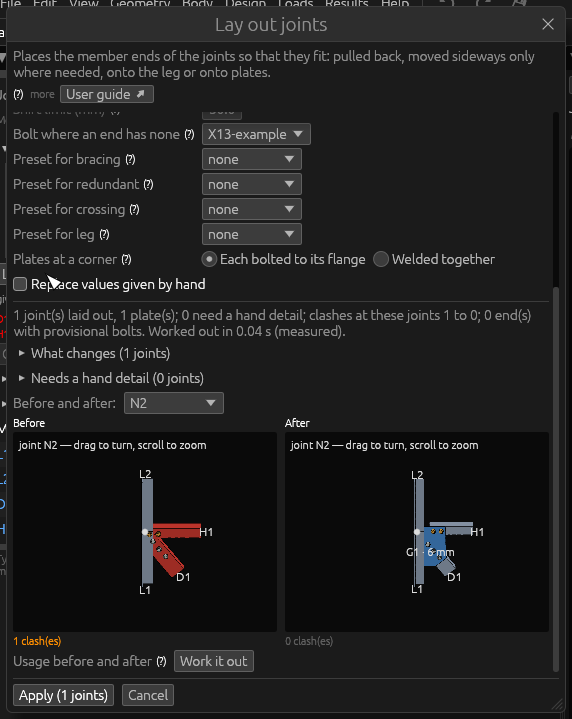
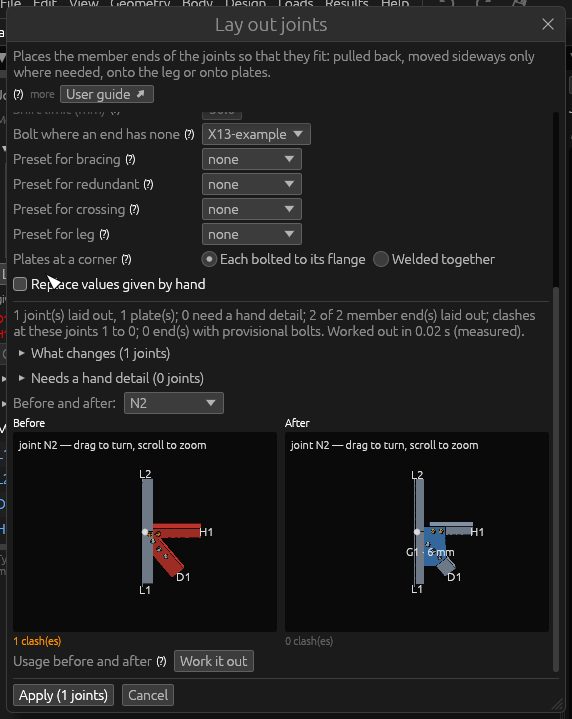
O44 J1/J2 docs: theory (the search, the place kept, assumptions, measured), user guide, joint details, decisions, roadmap; window pictures
Percentages only from the private real towers; the owner's example joints
noted (a bent corner plate proposed next), no source named.

Changed region(s): [[0.535, 0.4284, 0.951, 0.4896], [0.208, 0.459, 0.535, 0.4896], [0.0297, 0.459, 0.1783, 0.4896]]

diff --git a/docs/theory/joint-layout.md b/docs/theory/joint-layout.md
@@ -217,11 +217,112 @@ leg bolted, from where its steel stops outwards — and is pulled back
   end, of the region where the widened strips overlap (an exact
   intersection of half-strips, clipped as convex polygons);
 - the bolts already on that face that are not laid out (a leg's splice
-  bolts): each a disc of its head's corner radius and half the gap.
+  bolts): each a disc of its head's corner radius and half the gap;
+- (since 2026-11-19, J1) the **fixed steel** of the joint where it reaches
+  into the end's layer, by the gap: every part not laid out in this plan
+  (the members in line, running on, not single angles, given by hand, and
+  those left for a hand detail for their own sake — [below](#members-left-for-a-hand-detail-keep-their-place-j2)
+  —, their bolts' heads and nuts, the plates and covers given by hand) and
+  what the planes before laid out ([the search](#the-search-per-joint-j1)).
+  Each piece the clash check cuts the joint into is clipped to the end's
+  layer — from its face to two of its legs' (or the flange's, the
+  thicker) thicknesses and 0.7 bolt diameters above it (its leg on a
+  plate and its bolts' heads) — and seen from above as a convex polygon;
+  the least cut is the farthest point of it, along the end, within the
+  end's leg widened by the gap. Not what the end bolts onto (nor a member
+  running on from it in line), nor what bolts onto the end; a bolt's shank
+  through those is not in the way (its head and nut are). **An assumption
+  of the tool**: the layer's height is the program's, not a standard's;
+  steel above it is left to the clash check after writing, so nothing is
+  forced either way.
 
 The cut is rounded up to the millimetre. A cut beyond the **longest
 pull-back** (a setting) or beyond half the member less its bolts does not
 fit concentric.
+
+## The search per joint (J1)
+
+(Owner, 2026-11-19: "plan ideas to get the automatic layout working",
+approved with the recommendations; built the same day, in active
+development.) Before, the ends of a plane were placed one after the other
+in the owner's order, and one that did not fit was left — though the
+others pulled back could have made room for it. Now each joint is
+**searched**:
+
+1. **The planes on the biggest members first** (on a leg, then on the
+   bracing, then on the redundants; then by the member's id): what bolts
+   onto a member laid out on a leg keeps clear of that member as laid out —
+   its steel as a box from its cut to half its length, its outstanding leg
+   as high as it is wide, its bolts' heads, a plate under it as the hull of
+   its bolts with their edge distance. **An assumption, on the safe side for
+   the fit** (the boxes hold the angle and more); what the boxes miss is
+   caught by the clash check after writing.
+2. **In each plane, every order that can matter.** At each step every end
+   not placed yet is tried — concentric and pulled back, else the least
+   sideways shift that fits ([above](#moved-sideways-the-shift)) —; an end
+   that fits nowhere now fits nowhere later (each end placed only adds what
+   the others keep clear of), so it is left; each end that fits is placed
+   in turn, **in the owner's order** (class, the wider leg, the larger
+   angle, the id), and the rest searched again (backtracking). A placing
+   already reached in another order is not searched again.
+3. **The best**: the most ends placed; then the least eccentricity (the
+   moves off concentric, summed); then the first found. The first found
+   is the owner's order filled one after the other (as before the
+   search), so the owner's order wins every tie — the search only departs
+   from it where that lays out more or moves less. Typically a smaller
+   member placed first and a bigger one pulled back past it, where the
+   smaller one cannot be pulled back far enough within half its length
+   less its bolts.
+4. **Bounded**: at most **400 placings per joint** (`NODE_LIMIT`, the
+   program's starting value — measured on the private real towers: see
+   below —, not a standard's); a joint whose search stops there takes the
+   best found and says so with each end it leaves ("… (the search stopped
+   at its limit of 400 tries)").
+5. **Pulled back past a clash** (the 3D search): after writing, a member
+   whose laid-out steel, bolts or plate would run into anything is first
+   pulled back past it — its least cut the point of the clash along it,
+   the depth and the gap beyond its cut — and the joint planned again; up
+   to three times per end while rounds are left (six rounds per run, the
+   last two leaving such members as they were), then it is left as it was
+   with the clash, as before. A cut given by hand is never pulled back.
+
+Deterministic (the same joint and settings give the same plan: every
+order and tie fixed by the members' order and ids), no new clash (what is
+written runs into nothing but members left for a hand detail whose place
+is not kept free, below), values given by hand kept (a cut, a shift, a
+roll, what an end bolts onto: the search places round them). A longer cut
+changes no member force (the analysis runs on the members' axes); a
+shift, as before, is an eccentricity the analysis takes.
+
+## Members left for a hand detail keep their place (J2)
+
+(Owner-approved 2026-11-19.) A joint that is not laid out whole keeps the
+ends that fit; the members left are named with why ("N2: by hand R1 (its
+place kept free), the rest laid out — R1: too short for its bolts …").
+A member left **for its own sake** — it fits nowhere even alone: no roll
+lays it flat, on an inner face running towards the other leg, built up,
+too short for its bolts, its cut given by hand in the way — **keeps its
+place as it is**: every end laid out keeps clear of its steel and bolts as
+they are (in the plan, and in the clash check after writing, where a clash
+with it counts as any clash), so the joint then needs only that member by
+hand. **Not kept free** — said with what it runs into, as before:
+
+- a member left for want of room beside the ends laid out ("no room on one
+  plate", pulled back to clear one of them) or for a clash after writing:
+  it runs into them as it is, and its hand detail takes it out of their
+  way (it is the one that does not fit);
+- a plate laid out under a member left (its hand detail may bolt it onto
+  that very plate), and the members joined first (one part, nested,
+  spliced — the biggest profiles, the owner's step 1).
+
+**An assumption of the tool**: the place kept is the member as it is in
+the file, not where its hand detail will put it; a hand detail that moves
+it elsewhere may need the ends round it laid out again (Lay out joint…
+after the hand detail). Measured on two private real towers, keeping the
+place free costs 0.2 and 1.7 % of the ends laid out (against the members
+left kept clear of in the plan only); keeping the place of every member
+left free — also of those left for want of room, plates under them refused too — cost a quarter to a third of them
+(tried, left out).
 
 ## Moved sideways: the shift
 
@@ -397,12 +498,15 @@ are worked out again. Where a laid-out part would run into anything, the
 members of it — a member, its bolts, or the members on a plate — are left
 as they were, with the clash ("laid out, … would run 6 mm into each
 other"), and the rest of the joint is planned and checked again without
-them (since 2026-11-18; before, the whole joint was left). Of two parts
+them (since 2026-11-18; before, the whole joint was left) — since
+2026-11-19 (J1) after being pulled back past the clash up to three times
+first ([the search](#the-search-per-joint-j1), point 5). Of two parts
 laid out in one clash, the member is left before the members of a plate,
-then the redundant before the bracing, then the larger id. After four
+then the redundant before the bracing, then the larger id. After six
 such rounds a joint still clashing is left whole, as it was. Nothing is
 forced: what is written runs into nothing but the members left for a
-hand detail (whose clashes are said with them).
+hand detail whose place is not kept free (whose clashes are said with
+them; [J2](#members-left-for-a-hand-detail-keep-their-place-j2)).
 
 ## The clash check
 
@@ -452,6 +556,45 @@ None of them is a standard's value (the owner gave none, 2026-11-18):
 | Gap between steel | 10 mm | invented starting value |
 | Longest pull-back | 300 mm | measured on the 78 tower files of a private real line (579 to 3 030 members): with no limit, the concentric cut of the ends laid out is at most 136 mm for 95 % of the ends of every tower (100 mm for half of the towers), the largest 344 mm; 300 mm keeps the long plates to members at small angles |
 | Shift limit | 30 mm | measured on the same towers: with the pull-back at 300 mm, 37 of 18 289 ends laid out needed a shift, the largest 20 mm |
+
+Not settings, the program's starting values (J1, 2026-11-19), measured on
+the same towers:
+
+| Value | Start | Why |
+|---|---|---|
+| Placings searched per joint | 400 | never reached on the 78 tower files (the most ends of one plane there: a handful); 1 (no search) gave the same shares there, 2 000 the same layouts on the two towers tried |
+| Pulled back past a clash | 3 times per end, 6 rounds | 0 (4 rounds): 33.9 % of the joints laid out whole instead of 44.1 %, 53.9 % of the ends instead of 62.8 %; 2 (5 rounds): on two towers the same joints whole, about 1 % fewer ends, about 10 % quicker |
+
+## Measured (J1 and J2, 2026-11-19)
+
+On the 78 tower files of a private real line (Orient angles, then Lay
+out joints, values given by hand replaced; the same files and settings as
+the rounds before):
+
+| | before (2026-11-19) | J1 and J2 |
+|---|---|---|
+| joints laid out whole | 27.6 % | 44.1 % |
+| member ends laid out (of those the layout places) | 48.9 % | 62.8 % |
+| joints with a hand detail | 66.2 % | 49.7 % |
+| clashes at the joints after (of before) | 61.6 % | 46.3 % |
+| a run again identical | 78 of 78 | 78 of 78 |
+| time of a whole tower (2 190 to 3 030 members, measured one after the other) | 6–9 s | 10–15 s |
+
+Where it came from: the joint's fixed steel and what the planes before
+laid out seen in the plan, and the ends pulled back past a clash after
+writing. The search over the orders of a plane's ends changed nothing on
+these towers (its first path, the owner's order, was the best found at
+every joint; it lays out the synthetic joints of the tests that the
+owner's order filled one after the other leaves) — kept, as it costs
+nothing measurable there, but it **stops paying** on real towers: their
+planes hold few ends, and what is left is not a matter of order.
+
+What is left (joints with it; only it, of the joints with a hand detail):
+a member that no roll lays flat at both its ends, its welded plate not
+fitting (39 %; 13 %) — the turn of the whole member, J3, or a bent
+plate —; a clash after writing (39 %; 18 %); an end on an inner face
+running towards the other leg (29 %; 13 %); a built-up member (20 %;
+13 %); too short for its bolts (6 %; 3 %).
 
 The window shows each member's usage before and after for the last run's
 cases and the time the layout took.

diff --git a/docs/user-guide/joint-layout.md b/docs/user-guide/joint-layout.md
@@ -27,7 +27,9 @@ themselves are not chosen here (that comes with the design codes).
    member class), the plates of a corner bolted to their flanges or welded
    together, and whether values given by hand are replaced.
 5. Read the **preview**: how many joints are laid out, how many plates,
-   the joints that need a hand detail and why, the clashes at these joints
+   how many member ends of how many are laid out,
+   the joints that need a hand detail — which members, the rest laid out,
+   those whose place is kept free — and why, the clashes at these joints
    before and after, the time it took (measured); **What changes** per
    joint; a joint's close-up **before** and **after** (drag to turn both);
    **Usage before and after** (the members' largest usage over the last
@@ -43,11 +45,12 @@ themselves are not chosen here (that comes with the design codes).
 | Members in line first | the biggest pair of angles in line through the joint (its base): **one part** when they are the same section, turned alike and have no bolts there (a splice with bolts stays a bolted splice: its bolts stay checked); the smaller **nested** in the bigger when it fits inside; other sections that do not nest, both with their bolts, nothing else bolting onto them there: **spliced** — a splice of covers, outer and inner on each leg bolted, as thick as the thicker leg, both ends bolted onto it (2026-11-19; with bracing bolting onto them there: as given — its bolts would pass through a cover). One section in line with bolts: where the splice is is not known (their bolts may be the members' design data, at both ends) — left as given, said |
 | Who arrives | each member end bolting by one leg of an angle onto the flange of a member at the joint (the leg, a chord, a diagonal a redundant meets); members in line with it (a splice, one part) are left alone; an end bolting onto nothing gets the member running through the joint; an end whose axis lies in neither flange's plane of the joint's leg (a plan diagonal at a vertical post) gets the member running through in whose flange's plane it lies (the horizontal), if there is one — named first, so that its leg lying on it is the one bolted |
 | Laid flat | a member lying more than 5° off what it bolts onto is turned (its roll) **only where that helps**: where all its ends agree within 5° (the middle of their turns: an end that was flat stays flat, at joints not laid out too), no end of it at a joint not laid out is laid out with its roll now, and at least one of its joints is laid out with the turn; otherwise its roll stays and the preview's notes say why. A roll the layout set is taken back when none of its joints is laid out with it any more. **Half a turn** where an end on a flange's inner face cannot be laid out there (it runs towards the angle's other leg): its outstanding leg to the other side, kept only when more of its ends are laid out and no joint of it loses one (an X-brace: one diagonal on the outer faces of the legs, the other on the inner faces, back to back where they cross). A roll given by hand is kept unless replaced; a leg's or chord's roll set by **Orient angles** is always kept |
-| Concentric first | its gauge line through the work point (drawn so; the analysis keeps the member's axis there, the code's slenderness curve takes the eccentricity gauge to centroid); its end pulled back until its steel clears the flange's heel (on the inner face: the angle's other leg and root) and the ends placed before it by the gap — bracing before redundants, the wider leg first, the larger angle first |
+| Concentric first | its gauge line through the work point (drawn so; the analysis keeps the member's axis there, the code's slenderness curve takes the eccentricity gauge to centroid); its end pulled back until its steel clears the flange's heel (on the inner face: the angle's other leg and root), the ends placed before it and the joint's fixed steel (what is not laid out: members in line, built up, given by hand, left for a hand detail; their bolts) by the gap |
+| Searched (2026-11-19) | each joint is **searched**, not filled one member after the other: the planes on the biggest members first (what bolts onto a member laid out keeps clear of it as laid out); in each plane every order that can matter, the owner's order first (bracing before redundants, the wider leg, the larger angle), backtracking where an end does not fit — the most ends laid out wins, then the least moved sideways, then the owner's order. Typically a short redundant placed first and the bracing pulled back past it. At most 400 tries per joint (said where reached) |
 | A shift | only where that needs more than the longest pull-back (or more than the member's half less its bolts): the smallest sideways move that fits, a millimetre at a time, up to the shift limit. The analysis takes it as an eccentricity (a rigid end offset) |
 | Onto the leg or a plate | directly when every bolt of the plane lands on the flange (clear of its other leg and root by the nut, the edge distance from its toe — the code's when its plugin gives one, else the structure's default minimum, assumed, not a code's); else every member of the plane onto one plate on that flange, its bolts past the flange by the nut and the gap — on the outer or the inner face. Plates: as thick as the thickest leg bolted on it, outline round the bolts (the code's end and edge distances) cut at the flange's heel by half the gap (on an inner face: at the angle's thickness, root and half the gap from it, clear of its other leg); at a corner one per face, bolted to its flange, or welded together |
 | Off the flange | a member that no roll lays flat at both its ends (2026-11-19): onto a **plate in its own plane**, welded along the line where it meets the **flat plate** of its face on the flange (the other ends of that face bolted onto the flat plate) — both plates as thick as the thickest leg on them, the weld from both sides (each side a throat of 0.4 × that thickness in whole millimetres, at least 3 mm: the layout's choice, written so the weld is checked), the member's bolts past the flange's toe. On the flange's outer face, or its inner face for a member coming from inside the leg's corner. Only where the member then lies at most one plate thickness farther out of the flange than on a flat plate (its line of action off the work point is not in the analysis); else, and where the flat plate would not reach the flange or would pass too near another end's bolts, a hand detail, said |
-| No fit | the member is left exactly as it is and listed with why ("R1 and D1 within 3°: no room on one plate …"); the rest of the joint is laid out. Laid out, a member whose steel, bolts or plate would run into anything is left as it was with the clash ("laid out, … would run 6 mm into each other") and the rest of the joint laid out again without it (up to four rounds; then the joint is left whole, as it was). Never forced |
+| No fit | the member is left exactly as it is and listed with why ("R1 and D1 within 3°: no room on one plate …"); the rest of the joint is laid out. A member left for its own sake (no roll lays it flat, too short, built up…) **keeps its place**: the ends laid out keep clear of it as it is, so the joint needs only that member by hand. Laid out, a member whose steel, bolts or plate would run into anything is first pulled back past it (up to three times), then left as it was with the clash ("laid out, … would run 6 mm into each other") and the rest of the joint laid out again without it (up to six rounds; then the joint is left whole, as it was). Never forced |
 
 **The window**:
 

diff --git a/docs/development/joint-details.md b/docs/development/joint-details.md
@@ -1011,6 +1011,64 @@ splices; "report only"):
   sections has bracing on it); 6 026 joints say where their leg splice
   is is not known.
 
+Seventh round (2026-11-19, ROADMAP O44 J1 and J2, owner-approved in
+that order; "plan ideas to get the automatic layout working"):
+
+- **J1, a search per joint** (`joint_layout::plan_joint_with`,
+  `search_plane`, `NODE_LIMIT` = 400 placings per joint, said with the
+  ends left where reached): the planes on the biggest members first
+  (`Strip::host_rank`); each plane's ends placed in every order that can
+  matter, the owner's order first, backtracking (an end that fits nowhere
+  now fits nowhere later; placings reached in another order not searched
+  again); the most ends, then the least eccentricity, then the first
+  found. Each end keeps clear of the joint's **fixed steel**
+  (`clash::piece_corners`: the clash check's convex pieces of the parts
+  not laid out, `fixed_in`, clipped to the end's layer and seen from above,
+  `footprint`, `poly_need`) and of what the planes before laid out
+  (`solids_of`: boxes of the legs, outstanding legs, bolt heads and plates,
+  conservative). After writing, an end in a clash is first **pulled back
+  past it** (`write_rounds`: its least cut from the clash's place, depth
+  and the gap, `Strip::floor`; `PULLS` = 3 per end, `CLASH_ROUNDS` 4 → 6)
+  before it is left as it was.
+- **J2, the ends that fit kept and the place of a member left kept free**
+  (`JointPlan::kept_free`): a member left for its own sake (it fits
+  nowhere even alone) is fixed steel for the plan, and in the clash check a
+  clash of an end laid out with it counts; one left for want of room or
+  for a clash, a plate under a member left and the members joined first
+  are said with it, as before. The window's hand list names the members
+  left, the rest laid out, those kept free (`layout_window::hand_words`),
+  and the summary the member ends laid out of all.
+- **Fixed on the way**: the ends of one flange's face naming two members
+  of a run through the joint (a leg in two members, one end onto each)
+  were measured in two mirrored frames (the plane's x along each member
+  named): their clearances were wrong. The plane's axes now run one way
+  for every member of the run, so such ends share one plane and one
+  plate.
+- No format change: the record is the same (the reasons in `hand`).
+- Tests: the owner's order filled one after the other leaves a short
+  redundant, the search lays both out (D1 pulled back past it); a single
+  placing says the limit; the same plan twice and a plan written kept; a
+  cut given by hand kept; a member too short for its bolts keeps its
+  place (plan and run); two invented versions of example joints the owner
+  sent (diagonals bolted directly on a main angle's flange in the middle
+  of a panel, two bolts each; a gusset plate on it there).
+- **On the 78 private real tower files**: joints laid out whole 27.6 % →
+  44.1 %, member ends laid out 48.9 % → 62.8 %, joints with a hand
+  detail 66.2 % → 49.7 %, clashes at the joints after 61.6 % → 46.3 % of
+  before, a run again identical on all 78; a whole tower of 2 190 to
+  3 030 members 6–9 s → 10–15 s (one after the other). The order search
+  itself changed nothing there (stops paying: kept for joints where it
+  does); the gains are the fixed steel seen in the plan and the pull-back
+  past a clash. What is left: [theory](../theory/joint-layout.md#measured-j1-and-j2-2026-11-19).
+- **A bent plate** (the owner's example of 2026-11-19, a plate folded to
+  follow two faces at a corner, members on both sides): of the joints
+  still with a hand detail, 60 % have an end whose leg bolted lies off its
+  flange or faces away, or lies on an inner face running towards the
+  other leg — what a bent plate would take —, and for 29 % it is the only
+  reason; onto a leg alone 9 % (the only reason for 2 %: most such ends
+  bolt onto bracing — horizontals, plan and hip members). Not built (a new
+  model element): proposed as the next step.
+
 ## Detail levels
 
 Joint details exist at **level 3** only (full design). At levels 1 and 2

diff --git a/ROADMAP.md b/ROADMAP.md
@@ -1873,14 +1873,32 @@ of the joints are laid out whole; most of the rest fail on a chain: the
 members are placed one after the other, and one that does not fit blocks
 the joint. Each step is measured on the same towers (share laid out per
 step, reasons left), and the work stops where it stops paying:
-- [ ] J1. **A search per joint** instead of one member after the other:
+- [x] J1. **A search per joint** instead of one member after the other:
   per end its choices (flange, outer or inner side, leg bolted, direct or
   on a plate, a few shift steps), searched with backtracking for no clash
   and the least eccentricity; deterministic, no new clash, values given
-  by hand kept.
-- [ ] J2. **The ends that fit are kept** in a joint that is not whole: the
+  by hand kept. Built 2026-11-19, in active development, not approved
+  yet: the planes on the biggest members first, each plane's ends in
+  every order that can matter (the owner's order first, at most 400
+  placings per joint), clear of the joint's fixed steel and of what the
+  planes before laid out; after writing, an end in a clash pulled back
+  past it (up to three times) before it is left. The flange, the side and
+  the leg bolted follow the member's roll (a choice for the whole member:
+  J3); direct or on a plate stays per plane (mixed was tried 2026-11-18
+  and lost joints). On the 78 real towers: joints laid out whole 27.6 % →
+  44.1 %, member ends laid out 48.9 % → 62.8 %, a whole tower 6–9 s →
+  10–15 s. The order search itself changed nothing there (stops paying;
+  kept for the joints where it does): the gains are the fixed steel seen
+  in the plan and the pull-back past a clash.
+- [x] J2. **The ends that fit are kept** in a joint that is not whole: the
   space of a member left for a hand detail reserved so nothing laid out
-  runs into it; the joint then needs only that member by hand.
+  runs into it; the joint then needs only that member by hand. Built
+  2026-11-19, in active development, not approved yet: a member left for
+  its own sake keeps its place as it is (about 1 % of the ends laid out on
+  two real towers); one left for want of room beside the others, or for a
+  clash, is said with what it runs into (keeping every member's place
+  cost a quarter to a third of the ends); the window names the members
+  left, those whose place is kept, and the ends laid out of all.
 - [ ] J3. **Each angle's turn chosen for the whole member**: a roll that
   lets both its ends lie flat, the leg bolted allowed to change between
   its ends where that is how towers are built.
@@ -1900,7 +1918,16 @@ step, reasons left), and the work stops where it stops paying:
   code's text allows it for a redundant, else a plate shared with the
   neighbouring member.
 - Asked (open): shop drawings of real towers, to tune to how the steel
-  is really detailed.
+  is really detailed; the owner is looking for example joints
+  (2026-11-19) and sent three that day: a bent gusset plate at a corner,
+  folded to follow the two faces, members bolted on both sides of it;
+  diagonals bolted directly on a main angle's flanges; gusset plates on a
+  leg where diagonals meet it in the middle of a panel. The last two are
+  steps 2a and 2b (invented versions in the tests); the bent plate is a
+  new element — proposed next: of the joints left for a hand detail after
+  J1 and J2, 60 % have an end it would take (an end off its flange, its
+  leg bolted facing away, or on an inner face running towards the other
+  leg), the only reason for 29 %.
 Later: the bolts chosen by the code plugins and the layout run again with
 them.
 

diff --git a/docs/development/decisions.md b/docs/development/decisions.md
@@ -8,6 +8,42 @@ approved as finished: everything is built and in active development
 (not approved yet). Open questions are in the roadmap (the open points
 of Parts A, B and C).
 
+## 2026-11-19 (joint layout: a search per joint, the place of a member left kept)
+
+**O44 J1 and J2** (owner, 2026-11-19: "plan ideas to get the automatic
+layout working", approved with the recommendations, in the order J1–J8;
+built, in active development, not approved yet;
+[theory](../theory/joint-layout.md#the-search-per-joint-j1),
+[user guide](../user-guide/joint-layout.md)):
+
+- **J1, a search per joint**: each plane's ends placed in every order
+  that can matter, the owner's order first (so it wins every tie), the
+  most ends then the least eccentricity winning, at most 400 placings per
+  joint (said where reached); each end clear of the joint's fixed steel
+  (what is not laid out: the clash check's pieces, seen from above in the
+  end's layer) and of what the planes on bigger members laid out (boxes
+  holding the angle, its bolts' heads and a plate: on the safe side for
+  the fit); after writing, an end in a clash pulled back past it up to
+  three times before it is left as it was (six clash rounds instead of
+  four). Deterministic; values given by hand kept; a run again identical.
+  The flange, the side and the leg bolted follow the member's roll (J3);
+  direct or on a plate stays per plane.
+- **J2**: a member left for its own sake keeps its place as it is (the
+  ends laid out keep clear of it, in the plan and in the clash check);
+  one left for want of room or for a clash, a plate under a member left
+  and the members joined first are said with it, as before — keeping the
+  place of every member left cost a quarter to a third of the ends laid
+  out on two real towers (measured, left out). An assumption of the
+  tool: the place kept is the member as it is, not where its hand detail
+  will put it (said in the theory).
+- **Measured** on the 78 private real towers: whole joints 27.6 % → 44.1 %,
+  ends laid out 48.9 % → 62.8 %, a whole tower 1.5 to 1.9 times as long
+  (10–15 s). The order search alone changed nothing there: said, kept.
+- **The owner's example joints** (2026-11-19): direct flange connections
+  and mid-panel gusset plates are invented test joints now; the bent
+  plate at a corner is not built (a new element) and proposed next.
+- No format change.
+
 ## 2026-11-19 (O42 and O46: edits in OHL-Design in place; the tests' PostgreSQL)
 
 **OHL-Design's line is kept in step with the session in place** (owner,
